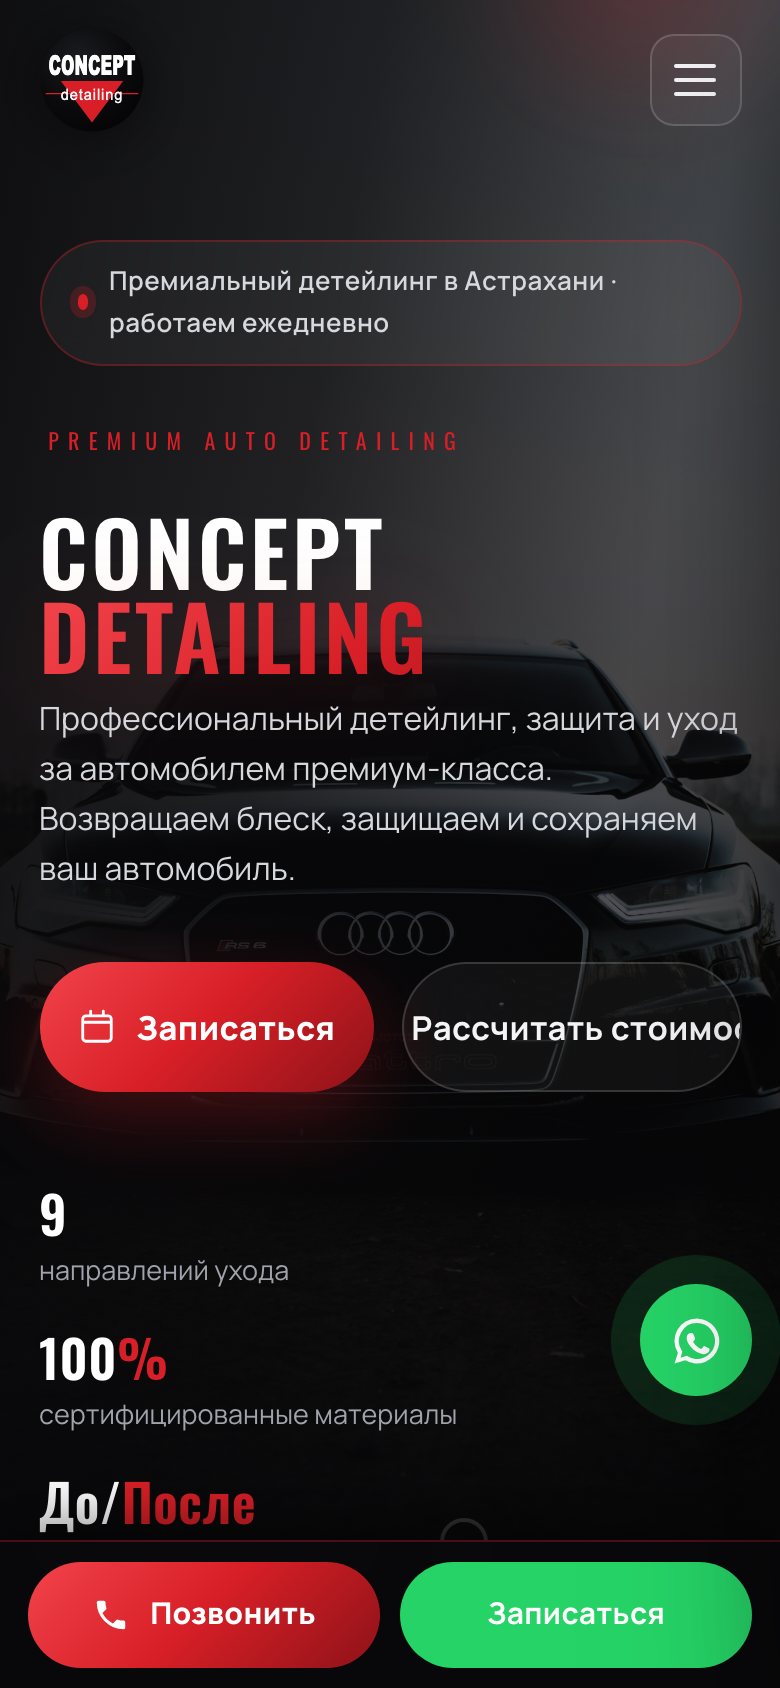
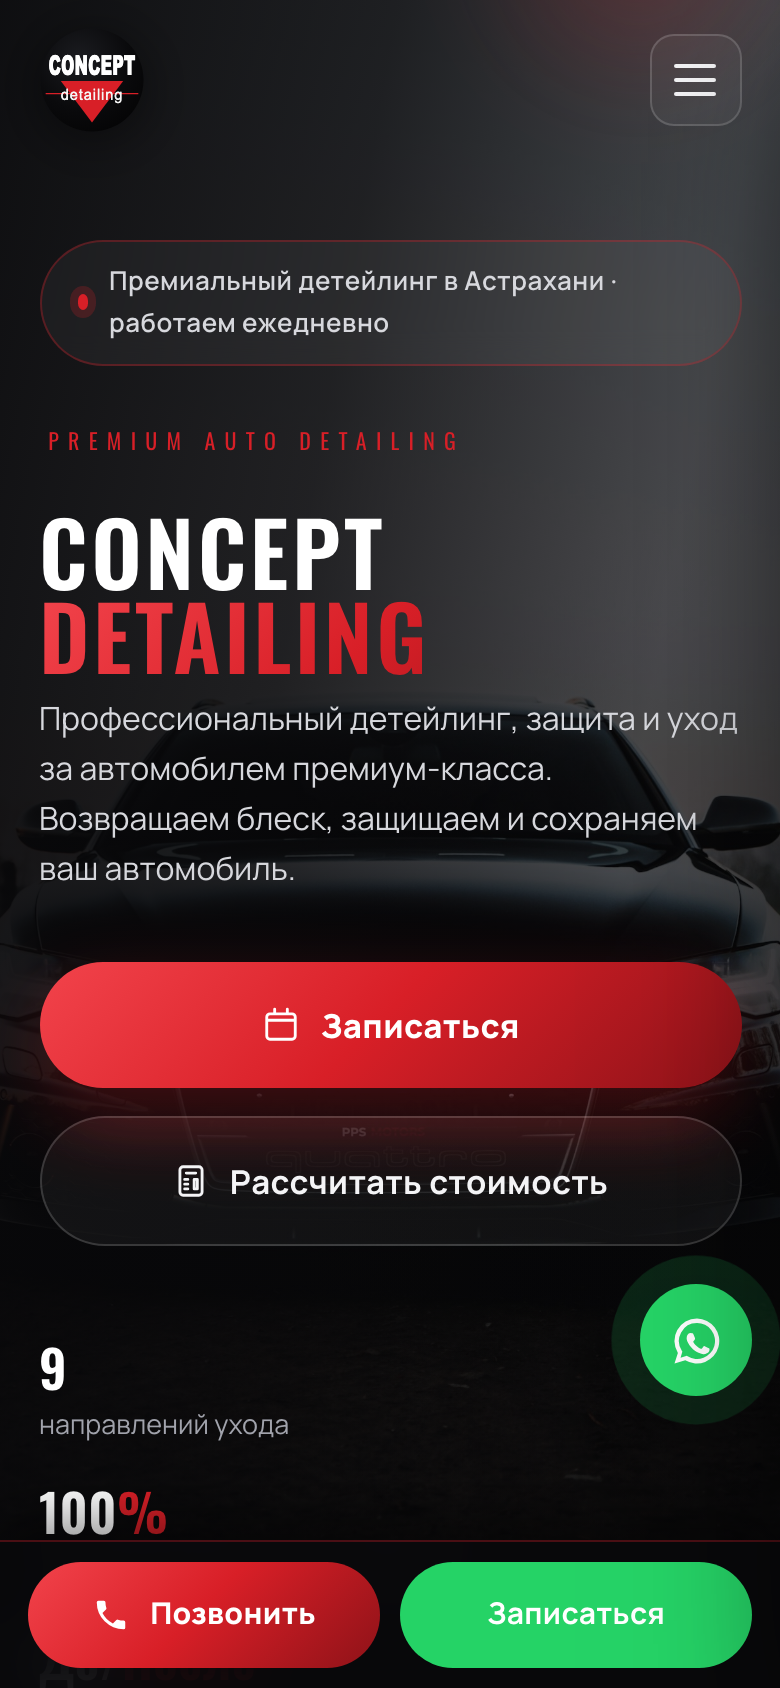
Concept Detailing: fix booking CTAs after PR #1 removed the form
PR #1 removed the on-page lead form + contact buttons. Repointed all 14
'Записаться' CTA buttons (header, hero, calc, call-bar, service blocks) to open
WhatsApp (wa.me/[phone redacted]) so the primary call-to-action isn't a dead end;
nav 'Контакты' links still scroll to the section. Updated README + screenshots.

Changed region(s): [[0.1846, 0.3697, 1.0, 0.7085], [0.0308, 0.7085, 0.5846, 0.9242], [0.0923, 0.5853, 0.1538, 0.6469]]

diff --git a/landings/12-concept-detailing/index.html b/landings/12-concept-detailing/index.html
@@ -85,7 +85,7 @@
         <svg viewBox="0 0 24 24" fill="none"><path d="M6.6 10.8a15 15 0 0 0 6.6 6.6l2.2-2.2a1 1 0 0 1 1-.24 11.4 11.4 0 0 0 3.6.58 1 1 0 0 1 1 1V20a1 1 0 0 1-1 1A17 17 0 0 1 3 4a1 1 0 0 1 1-1h3.5a1 1 0 0 1 1 1c0 1.25.2 2.46.58 3.6a1 1 0 0 1-.25 1z" fill="currentColor"/></svg>
         8 (999) 646-67-79
       </a>
-      <a href="#contacts" class="btn btn--primary">Записаться</a>
+      <a href="https://wa.me/79996466779?text=Здравствуйте!%20Хочу%20записаться%20в%20Concept%20Detailing" target="_blank" rel="noopener" class="btn btn--primary">Записаться</a>
       <button class="burger" id="burger" aria-label="Открыть меню" aria-expanded="false" aria-controls="mobileNav">
         <span></span><span></span><span></span>
       </button>
@@ -108,7 +108,7 @@
   <a href="#reviews" class="m-link">Отзывы</a>
   <a href="#faq" class="m-link">Вопросы и ответы</a>
   <a href="#contacts" class="m-link">Контакты</a>
-  <a href="#contacts" class="btn btn--primary btn--block">Записаться онлайн</a>
+  <a href="https://wa.me/79996466779?text=Здравствуйте!%20Хочу%20записаться%20в%20Concept%20Detailing" target="_blank" rel="noopener" class="btn btn--primary btn--block">Записаться онлайн</a>
 </nav>
 
 <main id="top">
@@ -127,7 +127,7 @@
       <p class="hero__sub">Профессиональный детейлинг, защита и уход за&nbsp;автомобилем премиум-класса. Возвращаем блеск, защищаем и сохраняем ваш автомобиль.</p>
 
       <div class="hero__actions">
-        <a href="#contacts" class="btn btn--primary btn--lg">
+        <a href="https://wa.me/79996466779?text=Здравствуйте!%20Хочу%20записаться%20в%20Concept%20Detailing" target="_blank" rel="noopener" class="btn btn--primary btn--lg">
           <svg viewBox="0 0 24 24" fill="none"><path d="M8 2v3M16 2v3M3.5 9h17M5 5h14a2 2 0 0 1 2 2v12a2 2 0 0 1-2 2H5a2 2 0 0 1-2-2V7a2 2 0 0 1 2-2z" stroke="currentColor" stroke-width="1.8" stroke-linecap="round" stroke-linejoin="round"/></svg>
           Записаться
         </a>
@@ -248,7 +248,7 @@
       </div>
       <div class="svc-cta">
         <p><b>Не уверены, что выбрать?</b> Подскажем оптимальный комплекс под ваш автомобиль и бюджет.</p>
-        <a href="#contacts" class="btn btn--primary">Записаться на мойку</a>
+        <a href="https://wa.me/79996466779?text=Здравствуйте!%20Хочу%20записаться%20в%20Concept%20Detailing" target="_blank" rel="noopener" class="btn btn--primary">Записаться на мойку</a>
       </div>
     </div>
 
@@ -275,7 +275,7 @@
       <p class="matrix-hint"><svg viewBox="0 0 24 24" fill="none"><circle cx="12" cy="12" r="9" stroke="currentColor" stroke-width="1.8"/><path d="M12 11v5M12 8h.01" stroke="currentColor" stroke-width="2" stroke-linecap="round"/></svg> Все цены в ₽. На смартфоне таблицу можно прокрутить вправо.</p>
       <div class="svc-cta">
         <p><b>Постоянным клиентам</b> — особые условия и абонементы на регулярную мойку.</p>
-        <a href="#contacts" class="btn btn--primary">Узнать об абонементе</a>
+        <a href="https://wa.me/79996466779?text=Здравствуйте!%20Хочу%20записаться%20в%20Concept%20Detailing" target="_blank" rel="noopener" class="btn btn--primary">Узнать об абонементе</a>
       </div>
     </div>
 
@@ -301,7 +301,7 @@
       </div>
       <div class="svc-cta">
         <p><b>Доступные степени затемнения:</b> 5% · 15% · 20% · 35% · 50% · 70% · 95%. Стоимость за полусферу не зависит от процента (5–50%); светлые «по ГОСТ» 70–95% и атермальные плёнки — отдельные позиции из-за материала.</p>
-        <a href="#contacts" class="btn btn--primary">Записаться на тонировку</a>
+        <a href="https://wa.me/79996466779?text=Здравствуйте!%20Хочу%20записаться%20в%20Concept%20Detailing" target="_blank" rel="noopener" class="btn btn--primary">Записаться на тонировку</a>
       </div>
     </div>
 
@@ -325,7 +325,7 @@
       </div>
       <div class="svc-cta">
         <p><b>Бренды на выбор:</b> от надёжного полиуретана до премиальных Xpel, SunTek, Llumar. Подберём баланс цены и защиты.</p>
-        <a href="#contacts" class="btn btn--primary">Рассчитать оклейку</a>
+        <a href="https://wa.me/79996466779?text=Здравствуйте!%20Хочу%20записаться%20в%20Concept%20Detailing" target="_blank" rel="noopener" class="btn btn--primary">Рассчитать оклейку</a>
       </div>
     </div>
 
@@ -349,7 +349,7 @@
       </div>
       <div class="svc-cta">
         <p><b>Цвет и фактура</b> — на ваш вкус. Поможем подобрать плёнку и сделаем визуализацию до начала работ.</p>
-        <a href="#contacts" class="btn btn--primary">Обсудить оклейку</a>
+        <a href="https://wa.me/79996466779?text=Здравствуйте!%20Хочу%20записаться%20в%20Concept%20Detailing" target="_blank" rel="noopener" class="btn btn--primary">Обсудить оклейку</a>
       </div>
     </div>
 
@@ -372,7 +372,7 @@
       </div>
       <div class="svc-cta">
         <p><b>Перед керамикой и оклейкой</b> рекомендуем полировку — покрытие ляжет на идеально подготовленный лак.</p>
-        <a href="#contacts" class="btn btn--primary">Записаться на полировку</a>
+        <a href="https://wa.me/79996466779?text=Здравствуйте!%20Хочу%20записаться%20в%20Concept%20Detailing" target="_blank" rel="noopener" class="btn btn--primary">Записаться на полировку</a>
       </div>
     </div>
 
@@ -394,7 +394,7 @@
       </div>
       <div class="svc-cta">
         <p><b>Подберём покрытие</b> под ваш бюджет и срок службы — от сезонного жидкого стекла до многослойной керамики 9H с гарантией.</p>
-        <a href="#contacts" class="btn btn--primary">Подобрать керамику</a>
+        <a href="https://wa.me/79996466779?text=Здравствуйте!%20Хочу%20записаться%20в%20Concept%20Detailing" target="_blank" rel="noopener" class="btn btn--primary">Подобрать керамику</a>
       </div>
     </div>
 
@@ -417,7 +417,7 @@
       </div>
       <div class="svc-cta">
         <p><b>Полный салон внедорожника или минивэна</b> — рассчитывается индивидуально по объёму. Уточним при записи.</p>
-        <a href="#contacts" class="btn btn--primary">Записаться на химчистку</a>
+        <a href="https://wa.me/79996466779?text=Здравствуйте!%20Хочу%20записаться%20в%20Concept%20Detailing" target="_blank" rel="noopener" class="btn btn--primary">Записаться на химчистку</a>
       </div>
     </div>
 
@@ -443,7 +443,7 @@
       </div>
       <div class="svc-cta">
         <p><b>Нужно что-то особенное?</b> Берёмся за нестандартные задачи — расскажите, и мы предложим решение.</p>
-        <a href="#contacts" class="btn btn--primary">Обсудить задачу</a>
+        <a href="https://wa.me/79996466779?text=Здравствуйте!%20Хочу%20записаться%20в%20Concept%20Detailing" target="_blank" rel="noopener" class="btn btn--primary">Обсудить задачу</a>
       </div>
     </div>
   </div>
@@ -520,7 +520,7 @@
           <svg viewBox="0 0 24 24" fill="none" width="42" height="42" style="color:rgba(216,31,39,.32)" aria-hidden="true"><rect x="5" y="3" width="14" height="18" rx="2" stroke="currentColor" stroke-width="1.6"/><path d="M9 7h6M8 11h2M8 14h2M8 17h2M14 11h2v6h-2z" stroke="currentColor" stroke-width="1.6" stroke-linecap="round" stroke-linejoin="round"/></svg>
         </div>
         <p class="calc__note"><svg viewBox="0 0 24 24" fill="none"><circle cx="12" cy="12" r="9" stroke="currentColor" stroke-width="1.8"/><path d="M12 11v5M12 8h.01" stroke="currentColor" stroke-width="2" stroke-linecap="round"/></svg> Расчёт ориентировочный. Итоговая цена зависит от состояния авто, выбранных материалов и объёма работ — мастер подтвердит её после осмотра.</p>
-        <a href="#contacts" class="btn btn--primary btn--block">Записаться по этой цене</a>
+        <a href="https://wa.me/79996466779?text=Здравствуйте!%20Хочу%20записаться%20в%20Concept%20Detailing" target="_blank" rel="noopener" class="btn btn--primary btn--block">Записаться по этой цене</a>
       </div>
 
       <div class="calc-side">
@@ -868,7 +868,7 @@
     <svg viewBox="0 0 24 24" fill="none"><path d="M6.6 10.8a15 15 0 0 0 6.6 6.6l2.2-2.2a1 1 0 0 1 1-.24 11.4 11.4 0 0 0 3.6.58 1 1 0 0 1 1 1V20a1 1 0 0 1-1 1A17 17 0 0 1 3 4a1 1 0 0 1 1-1h3.5a1 1 0 0 1 1 1c0 1.25.2 2.46.58 3.6a1 1 0 0 1-.25 1z" fill="currentColor"/></svg>
     Позвонить
   </a>
-  <a href="#contacts" class="btn btn--wa-bar">Записаться</a>
+  <a href="https://wa.me/79996466779?text=Здравствуйте!%20Хочу%20записаться%20в%20Concept%20Detailing" target="_blank" rel="noopener" class="btn btn--wa-bar">Записаться</a>
 </div>
 
 <script src="script.js" defer></script>

diff --git a/Бриф — лендинг (для заказчика).md b/Бриф — лендинг (для заказчика).md
@@ -1,0 +1,212 @@
+# Бриф на разработку лендинга (Landing Page)
+
+> **Что это.** Бриф — короткая анкета, которая помогает мне понять ваш бизнес и задачу,
+> чтобы сделать сайт, который продаёт, а не просто «красивую страницу».
+> **Как заполнять.** Отвечайте своими словами, прямо в этом документе после каждого пункта.
+> Если на вопрос пока нет ответа — пишите «не знаю» или «на ваше усмотрение», подскажу.
+> Заполнение занимает ~15–20 минут. Чем подробнее — тем точнее результат и меньше правок.
+
+📅 Дата заполнения: ________________
+🏢 Проект / название: ________________
+
+---
+
+## 1. О компании и продукте
+
+1.1. Чем занимаетесь, что продаёте (услуга / товар)?
+> Ответ:
+
+1.2. В каком городе/регионе работаете? Принимаете клиентов офлайн, онлайн или везде?
+> Ответ:
+
+1.3. Сколько лет на рынке, ключевые цифры (клиенты, проекты, отзывы) — если есть и можно показать?
+> Ответ:
+
+1.4. В чём ваше главное отличие от конкурентов (почему выбирают именно вас)?
+> Ответ:
+
+---
+
+## 2. Цель сайта
+
+2.1. Какое **главное действие** должен совершить посетитель? (отметьте `[x]`)
+- [ ] Оставить заявку / записаться
+- [ ] Позвонить
+- [ ] Написать в мессенджер (WhatsApp / Telegram)
+- [ ] Перейти в каталог / на оплату
+- [ ] Другое: ________________
+
+2.2. Куда должны приходить заявки? (WhatsApp, Telegram, почта, CRM (система управления клиентами) — укажите контакт/аккаунт)
+> Ответ:
+
+2.3. Откуда пойдёт трафик (посетители)? (отметьте)
+- [ ] Реклама в Яндекс / Google
+- [ ] Соцсети (Instagram, ВК, TikTok)
+- [ ] Авито / маркетплейсы
+- [ ] Визитки / офлайн (QR-код)
+- [ ] Пока не знаю
+
+---
+
+## 3. Целевая аудитория
+
+3.1. Кто ваши клиенты (пол, возраст, доход, интересы)?
+> Ответ:
+
+3.2. Какую проблему клиента вы решаете? Какие у него возражения и страхи перед покупкой?
+> Ответ:
+
+---
+
+## 4. Конкуренты и референсы (примеры)
+
+4.1. 1–3 сайта конкурентов (ссылки):
+> Ответ:
+
+4.2. 1–3 сайта, которые вам **нравятся по стилю** (не обязательно из вашей ниши) — и что именно нравится:
+> Ответ:
+
+4.3. Что вам **не нравится** в сайтах конкурентов (чего избегать)?
+> Ответ:
+
+---
+
+## 5. Структура: какие блоки нужны на лендинге
+
+Отметьте нужное (`[x]`), лишнее уберите:
+- [ ] Первый экран с заголовком и кнопкой
+- [ ] О компании
+- [ ] Услуги / товары + **цены** (или «от …»)
+- [ ] Калькулятор стоимости
+- [ ] Галерея работ / портфолио (в т.ч. «До / После»)
+- [ ] Этапы работы («как мы работаем»)
+- [ ] Преимущества / почему мы
+- [ ] Команда / мастера
+- [ ] Отзывы клиентов
+- [ ] Частые вопросы (FAQ)
+- [ ] Акция / спецпредложение
+- [ ] Форма заявки / онлайн-запись
+- [ ] Карта и контакты
+- [ ] Другое: ________________
+
+---
+
+## 6. Дизайн и фирменный стиль
+
+6.1. Есть ли **логотип** и фирменные цвета? (пришлите файлы; если нет — сделаю/подберу)
+> Ответ:
+
+6.2. Желаемое настроение сайта (отметьте 1–3):
+- [ ] Премиум / люкс (тёмный, дорогой)
+- [ ] Светлый и минималистичный
+- [ ] Яркий и энергичный
+- [ ] Тёплый, «человечный», уютный
+- [ ] Строгий, деловой / корпоративный
+- [ ] На ваш профессиональный вкус
+
+6.3. Любимые / обязательные цвета и те, которых точно избегать:
+> Ответ:
+
+6.4. Язык(и) сайта:
+> Ответ:
+
+---
+
+## 7. Функциональность и интеграции
+
+7.1. Что должно работать на сайте? (отметьте)
+- [ ] Форма заявки (имя, телефон, комментарий)
+- [ ] Кнопки WhatsApp / Telegram / звонок
+- [ ] Калькулятор стоимости
+- [ ] Онлайн-оплата
+- [ ] Квиз (пошаговый опрос с подбором)
+- [ ] Чат / виджет
+- [ ] Многостраничность (несколько разделов)
+- [ ] Другое: ________________
+
+7.2. Нужна ли веб-аналитика (Яндекс.Метрика / Google Analytics) и пиксели рекламы?
+> Ответ:
+
+7.3. Есть ли уже CRM (система управления заявками) или таблица, куда заносить лиды?
+> Ответ:
+
+---
+
+## 8. Контент: кто предоставляет материалы
+
+8.1. **Тексты** — есть готовые, или писать мне?
+> Ответ:
+
+8.2. **Фотографии** — свои есть? Или использовать качественные стоковые (свободная лицензия)?
+> Ответ:
+
+8.3. **Логотип** в векторе (SVG/AI/PDF) — есть?
+> Ответ:
+
+8.4. Прайс / список услуг с ценами — приложите файлом или текстом:
+> Ответ:
+
+---
+
+## 9. Контакты на сайте
+
+9.1. Телефон(ы) для кнопок «Позвонить»:
+> Ответ:
+
+9.2. WhatsApp / Telegram (номер или ссылка):
+> Ответ:
+
+9.3. Соцсети (Instagram, ВК и т.д. — ссылки/ники):
+> Ответ:
+
+9.4. Адрес, режим работы (если нужно показывать):
+> Ответ:
+
+9.5. Реквизиты / ИНН (если нужна страница политики конфиденциальности по 152-ФЗ):
+> Ответ:
+
+---
+
+## 10. Технические детали
+
+10.1. Есть ли **домен** (адрес сайта)? Если да — какой; если нет — нужна помощь с покупкой?
+> Ответ:
+
+10.2. Есть ли **хостинг** (где разместить сайт)? (можно бесплатно на GitHub Pages)
+> Ответ:
+
+10.3. Был ли раньше сайт? Что с ним не так?
+> Ответ:
+
+---
+
+## 11. Сроки и бюджет
+
+11.1. Желаемый срок запуска (дедлайн):
+> Ответ:
+
+11.2. Ориентировочный бюджет (это помогает подобрать оптимальное решение):
+> Ответ:
+
+11.3. Кто принимает финальное решение и согласовывает макет?
+> Ответ:
+
+---
+
+## 12. Дополнительно
+
+Что ещё важно знать о проекте, чего я не спросил?
+> Ответ:
+
+---
+
+### ✅ Чек-лист: что прислать вместе с брифом
+- [ ] Логотип (по возможности в векторе) и фирменные цвета
+- [ ] Прайс / список услуг с ценами
+- [ ] Тексты (если есть) или ключевые тезисы
+- [ ] Фотографии работ / товаров / команды
+- [ ] Ссылки: соцсети, конкуренты, понравившиеся сайты
+- [ ] Контакты: телефон, WhatsApp/Telegram, адрес, режим работы
+
+> Спасибо! После получения брифа я уточню детали (если потребуется), оценю сроки и стоимость
+> и приступлю к работе. Связь: ________________

diff --git a/landings/12-concept-detailing/README.md b/landings/12-concept-detailing/README.md
@@ -37,7 +37,7 @@
 8. Наша команда (мастера + менеджеры с телефонами)
 9. Отзывы
 10. FAQ (аккордеон)
-11. Контакты + форма онлайн-записи + каналы (Позвонить / WhatsApp / Instagram)
+11. Контакты (телефоны менеджеров, Instagram и часы — в футере; запись через WhatsApp по кнопкам «Записаться»)
 12. Футер
 13. Плавающие кнопки: WhatsApp, «Наверх», мобильная панель «Позвонить / Записаться»
 
@@ -47,7 +47,8 @@
 - Слайдеры «До / После» (мышь, тач, клавиатура).
 - FAQ-аккордеон.
 - Мобильное меню с фокус-ловушкой и блокировкой скролла.
-- Маска телефона, валидация и отправка формы.
+- Кнопки «Записаться» открывают WhatsApp менеджера с готовым текстом заявки.
+- Бегущая строка услуг (marquee), магнитные CTA-кнопки и 3D-наклон карточек (только десктоп с мышью).
 - Скролл-спай навигации, кнопка «Наверх», анимации появления с самовосстановлением.
 
 ## Контакты в проекте
@@ -56,11 +57,11 @@
 - Instagram — [@concept_deteiling1](https://instagram.com/concept_deteiling1)
 
 ## Важно для заказчика (что доработать перед боевым запуском)
-- **Форма онлайн-записи отправляет заявку в WhatsApp менеджеру (Мухтар, [phone redacted]).**
-  При нажатии «Записаться» собирается текст заявки (имя, телефон, услуга, комментарий) и открывается чат
-  WhatsApp с готовым сообщением — клиенту остаётся нажать «отправить». Работает на статичном хостинге без сервера.
-  Чтобы сменить номер — поменяйте `WA_NUMBER` в `script.js`. При желании можно переключить на Telegram-бот,
-  Formspree (email) или CRM.
+- **Запись через WhatsApp.** Кнопки «Записаться» по сайту открывают чат WhatsApp менеджера
+  (Мухтар, 8 999 646-67-79) с готовым текстом. Отдельной формы на странице нет (убрана по правкам),
+  контакты также продублированы в футере (оба телефона + Instagram + часы) и в плавающей кнопке WhatsApp.
+  Чтобы сменить номер для кнопок — замените `wa.me/79996466779` в `index.html`. При желании можно
+  вернуть форму заявки или подключить Telegram-бот / Formspree (email) / CRM.
 - **Цены — ориентировочные** по рынку Астрахани (2025–2026). Перед публикацией сверьте с вашим прайсом.
 - **Фото галереи «До / После» — демонстрационные** (один кадр с эффектом затемнения «до»). Замените на
   реальные парные фото ваших работ — структура слайдера уже готова.